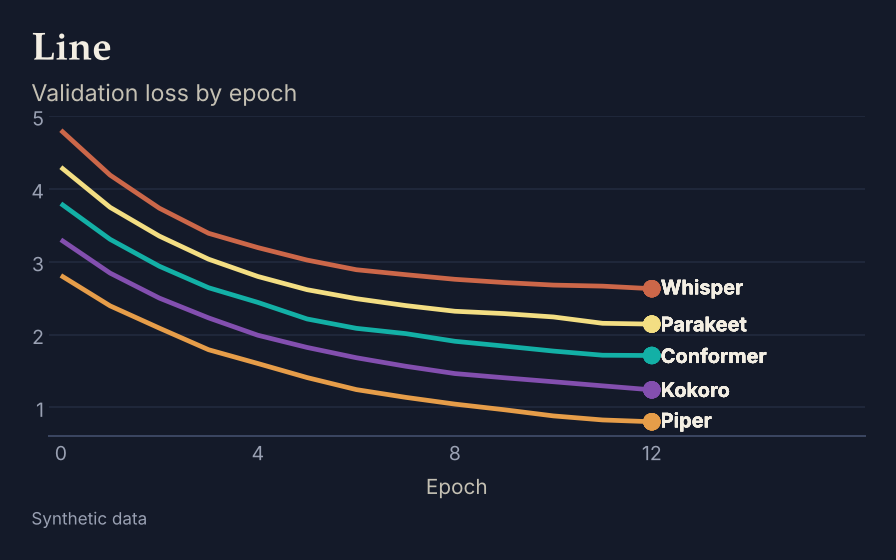
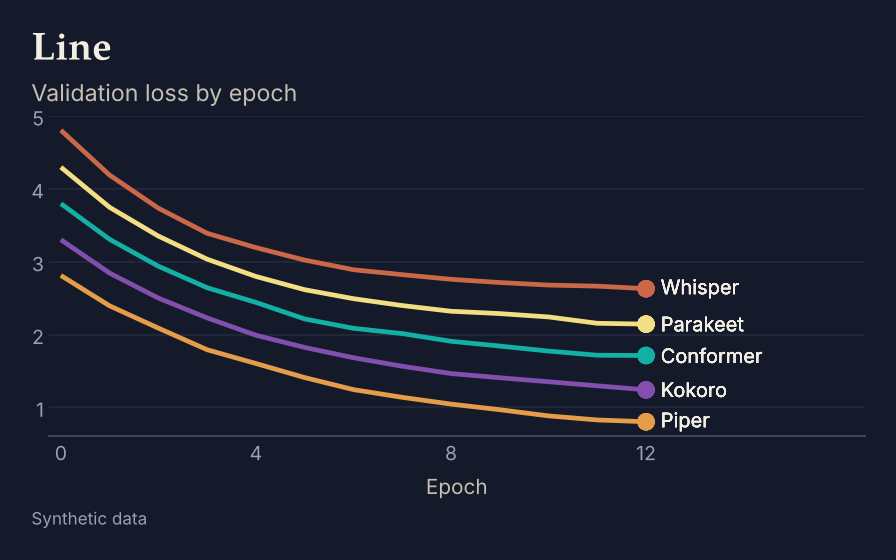
Lighter end labels
end_labels now uses regular weight by default (bold=False) and leaves a little more space after the dot. Pass bold=True for the old look. Regenerated gallery, palette, mega test and README example images.

diff --git a/src/roygbviz/labels.py b/src/roygbviz/labels.py
@@ -16,7 +16,7 @@ def room(right: float = 0.18, left: float = 0.02, axis: str = "x", breaks=None):
 
 
 def end_labels(data, x: str, y: str, group: str, label: str | None = None, *, dot: bool = True,
-               size: float = 3.4, text_size: float = 9, gap: float = 0.015, bold: bool = True, ink: bool = True):
+               size: float = 3.4, text_size: float = 9, gap: float = 0.025, bold: bool | str = False, ink: bool = True):
     """Layers that put a dot and the group's name at the last point of each line.
 
     ``data`` is the DataFrame behind the plot, ``x``, ``y`` and ``group`` are column names (``x`` must be numeric).
@@ -38,5 +38,5 @@ def end_labels(data, x: str, y: str, group: str, label: str | None = None, *, do
     mapping = aes(x=x, y=y, label=label or group) if ink else aes(x=x, y=y, label=label or group, colour=group)
     kw = dict(colour=text_col) if ink else {}
     layers.append(geom_text(mapping, data=last, ha="left", nudge_x=gap * span, size=text_size,
-                            fontweight="bold" if bold else "normal", show_legend=False, **kw))
+                            fontweight=("bold" if bold is True else bold) or "normal", show_legend=False, **kw))
     return layers

diff --git a/CHANGELOG.md b/CHANGELOG.md
@@ -1,5 +1,9 @@
 # Changelog
 
+## Unreleased
+
+- `end_labels` text is now regular weight by default (was bold), with a little more space after the dot. Pass `bold=True` for the old look, or `bold="medium"`/`"semibold"` if your font has it.
+
 ## 0.1.0 (2026-10-17)
 
 First release.
